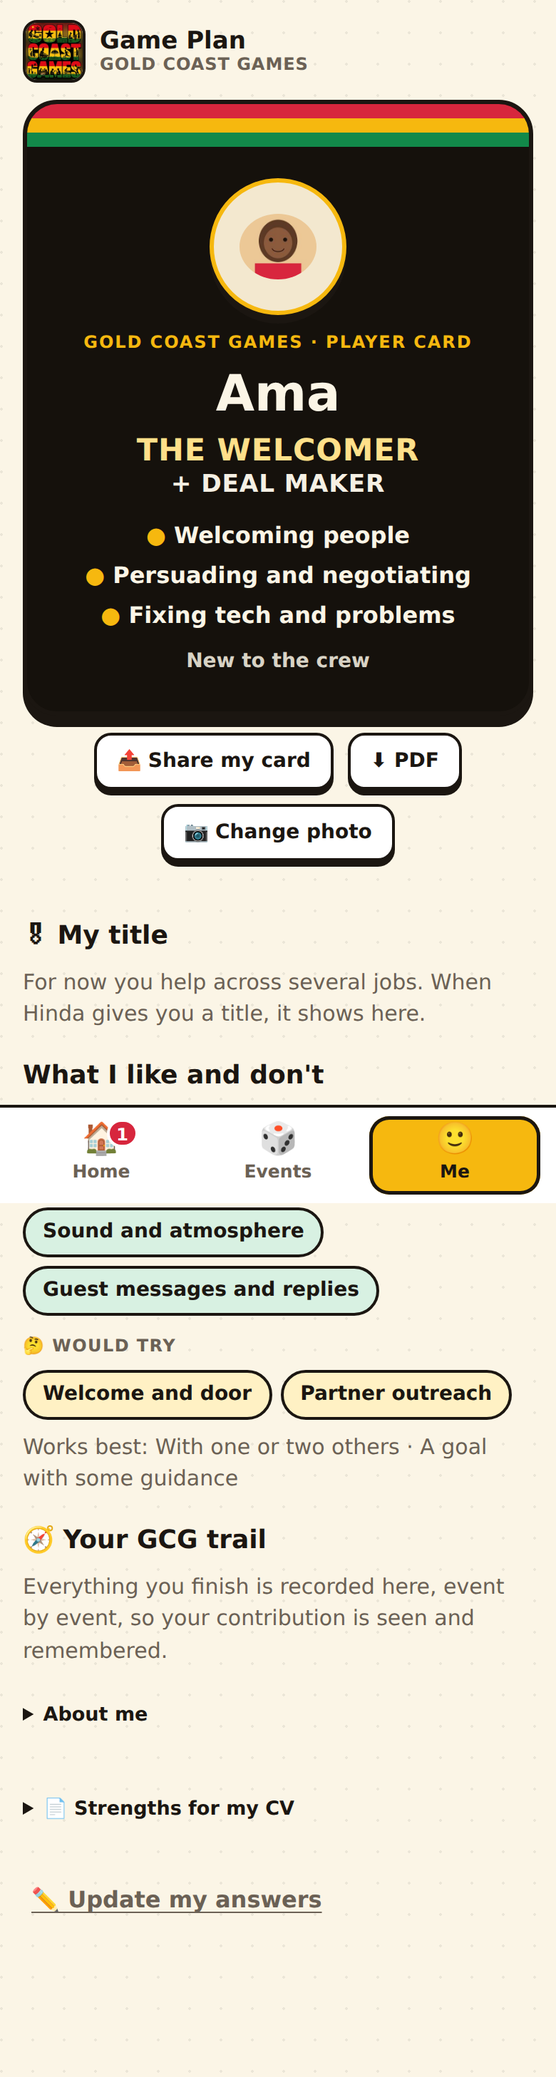
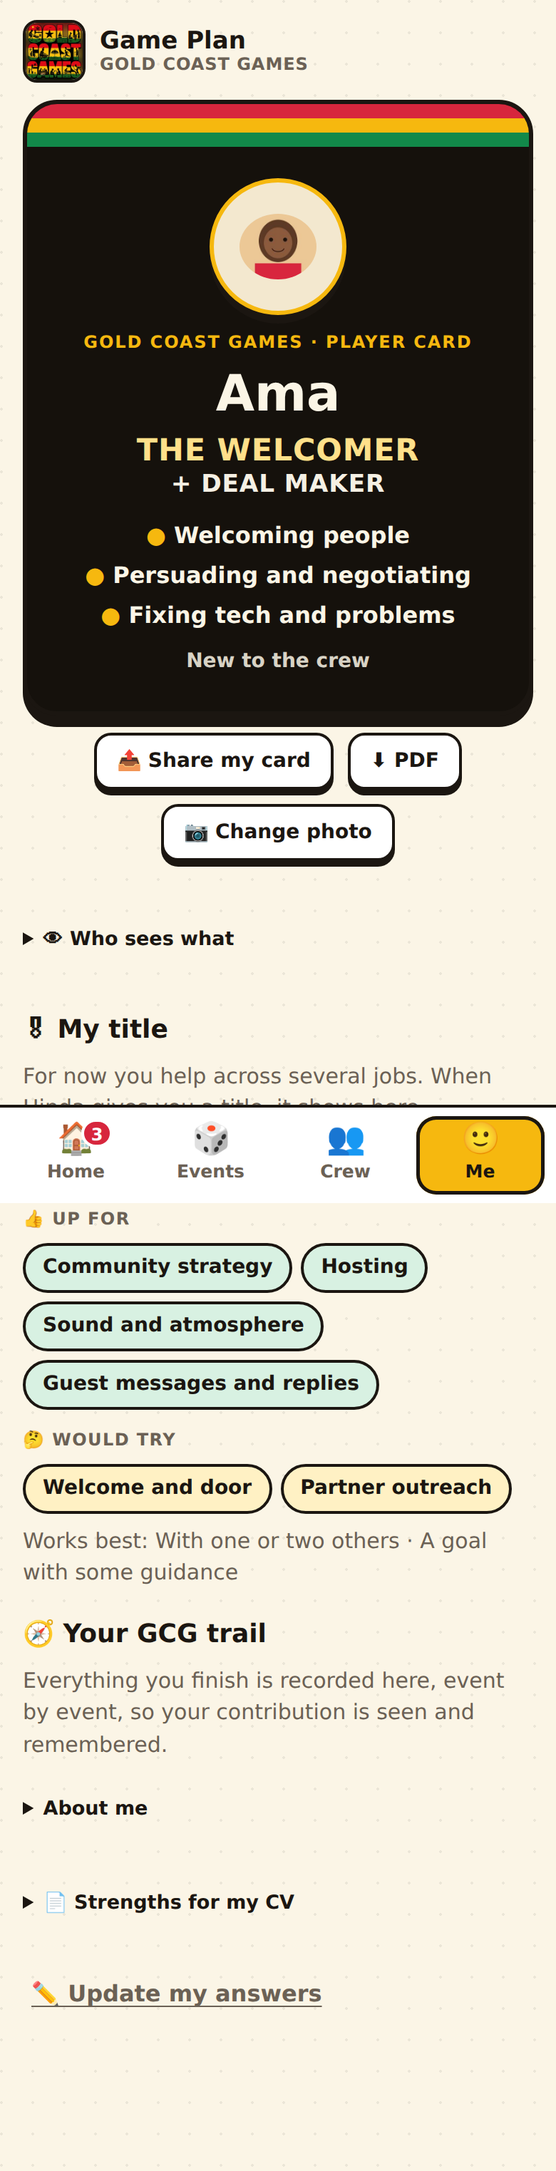
Let people choose what the crew sees, and add a Crew tab
Every person's About is visible to the crew; other sections are opt-in and off by default. Never shared: jobs they would rather not do, why they are here, card corrections. Adds a Crew tab, keeps panels open on live updates, and stops empty sections printing null.

Claude-Session: https://claude.ai/code/session_01JE2q3PibkVT4seoSptK9bV

Changed region(s): [[0.0, 0.0, 1.0, 0.9369], [0.8, 0.7495, 0.9231, 0.8119], [0.4923, 0.8432, 0.5231, 0.8744]]

diff --git a/gcg-game-plan.html b/gcg-game-plan.html
@@ -492,6 +492,20 @@ body.has-nav{padding-bottom:104px}
 .avatar{border-radius:50%;object-fit:cover;border:3px solid var(--edge);background:var(--bg-2)}
 .avatar.big{width:140px;height:140px;display:grid;place-items:center;font-size:56px}
 .avatar.card{width:96px;height:96px;border-color:#F6B80F}
+.avatar.md{width:56px;height:56px;flex:none;display:grid;place-items:center;font-size:26px}
+.sharebox{display:grid;gap:8px}
+.shr{appearance:none;display:grid;grid-template-columns:auto minmax(0,1fr) auto;gap:10px;align-items:center;text-align:left;border:2.5px solid var(--edge);border-radius:14px;background:var(--card);padding:10px 12px;cursor:pointer;min-height:52px}
+.shr.locked{background:var(--gold-soft);cursor:default}
+.shr[aria-pressed="true"]{background:var(--green-soft)}
+.shr-e{font-size:22px}
+.shr-t{display:grid;gap:2px}
+.crewtitle{display:grid;gap:2px;border-top:1.5px solid var(--soft);padding:8px 0}
+.crewtitle:first-of-type{border-top:0}
+.crewcard{margin-top:12px;gap:10px}
+.crewhead{appearance:none;display:flex;align-items:center;gap:12px;width:100%;text-align:left;border:0;background:none;padding:0;cursor:pointer}
+.crew-who{display:grid;gap:3px;flex:1;min-width:0}
+.crew-who b{font-family:var(--font-display);font-weight:600;font-size:18px}
+.crewsec{display:grid;gap:4px;border-top:1.5px solid var(--soft);padding-top:8px}
 .avatar.sm{width:32px;height:32px;border-width:2px;vertical-align:middle;margin-right:8px}
 .photobox{display:grid;justify-items:center;gap:12px;padding:8px 0}
 .photobox label.btn{cursor:pointer}
@@ -523,6 +537,7 @@ body.has-nav{padding-bottom:104px}
   <main id="view-flow"><div id="flow"></div></main>
   <section id="view-home" hidden><div id="homeBody"></div></section>
   <section id="view-mevents" hidden><div id="meventsBody"></div></section>
+  <section id="view-crew" hidden><div id="crewBody"></div></section>
   <section id="view-me" hidden><div id="profileBody"></div></section>
   <section id="view-today" hidden><div id="todayBody"></div></section>
 
@@ -890,6 +905,8 @@ function h(tag,attrs){
   }
   return e;
 }
+// Adding an empty section (null, false) to the page should add nothing, never the word "null".
+(function(){var o=Element.prototype.append;Element.prototype.append=function(){var a=[];(function f(xs){xs.forEach(function(c){if(Array.isArray(c))f(c);else if(c!=null&&c!==false)a.push(c);});})([].slice.call(arguments));return o.apply(this,a);};})();
 function $(id){return document.getElementById(id);}
 function clear(el){while(el.firstChild)el.removeChild(el.firstChild);}
 function say(el,text,kind){if(!el)return;el.textContent=text||"";if(kind)el.setAttribute("data-kind",kind);else el.removeAttribute("data-kind");}
@@ -974,11 +991,11 @@ var LEVELS=[
  {name:"You",screens:["like"]},
  {name:"Situations",screens:ASK.map(function(_,i){return "s"+i;})},
  {name:"Jobs",screens:["deck","all","profile"]},
- {name:"Your profile",screens:["done","bring","proud","photo","work","why"]}
+ {name:"Your profile",screens:["done","bring","proud","photo","work","why","share"]}
 ];
 // Onboarding is creating your profile: the card game (about 6 minutes), then your profile (about 4 minutes).
 // Progress is saved at every step, so people can stop and come back.
-var PATH=["intro","like"].concat(ASK.map(function(_,i){return "s"+i;})).concat(["deck","profile","done","bring","proud","photo","work","why"]);
+var PATH=["intro","like"].concat(ASK.map(function(_,i){return "s"+i;})).concat(["deck","profile","done","bring","proud","photo","work","why","share"]);
 var DECK_N=6;
 var S={name:"",cv:"",extra:"",levels:{},top:[],q:new Array(NQ+2).fill(0),story:newStory(),confirm:"",confirmNote:"",
   screen:"intro",tmp:null,deck:null,deckSig:"",deckAt:0,returnTo:"deck",openArea:"",
@@ -993,7 +1010,7 @@ function grouped(src){
 }
 function payload(){
   var g=grouped(S);
-  return {v:5,photo:cleanPhoto(S.photo),name:clean(S.name).slice(0,60),cv:clean(S.cv).slice(0,1500),extra:clean(S.extra).slice(0,600),
+  return {v:6,share:sanitizeShare(S.share),photo:cleanPhoto(S.photo),name:clean(S.name).slice(0,60),cv:clean(S.cv).slice(0,1500),extra:clean(S.extra).slice(0,600),
     top:g.top,good:g.good,curious:g.curious,no:g.no,q:normQ(S.q),story:sanitizeStory(S.story),
     confirm:CONFIRM[S.confirm]?S.confirm:"",confirmNote:clean(S.confirmNote).slice(0,300),
     updated:new Date().toISOString(),source:"app"};
@@ -1001,13 +1018,13 @@ function payload(){
 function saveDraft(){
   clearTimeout(saveTimer);
   saveTimer=setTimeout(function(){
-    lsSet(DRAFT_KEY,JSON.stringify({photo:S.photo,extraMode:!!S.extraMode,name:S.name,cv:S.cv,extra:S.extra,levels:S.levels,q:S.q,story:S.story,confirm:S.confirm,confirmNote:S.confirmNote,
+    lsSet(DRAFT_KEY,JSON.stringify({share:S.share,photo:S.photo,extraMode:!!S.extraMode,name:S.name,cv:S.cv,extra:S.extra,levels:S.levels,q:S.q,story:S.story,confirm:S.confirm,confirmNote:S.confirmNote,
       screen:S.screen,deck:S.deck,deckSig:S.deckSig,deckAt:S.deckAt,savedAt:new Date().toISOString()}));
   },250);
 }
 function loadDraft(){var raw=lsGet(DRAFT_KEY);if(!raw)return null;try{return JSON.parse(raw);}catch(e){return null;}}
 function applyRecord(d){
-  S.name=d.name||S.name;S.cv=d.cv||"";S.extra=d.extra||"";S.photo=cleanPhoto(d.photo);
+  S.name=d.name||S.name;S.cv=d.cv||"";S.extra=d.extra||"";S.photo=cleanPhoto(d.photo);S.share=sanitizeShare(d.share);
   S.levels={};S.top=sanitizeIds(d.top).slice(0,3);
   sanitizeIds(d.top).concat(sanitizeIds(d.good)).forEach(function(i){S.levels[i]="good";});
   sanitizeIds(d.curious).forEach(function(i){S.levels[i]="curious";});
@@ -1079,7 +1096,8 @@ function go(sc){
   try{window.scrollTo({top:0,behavior:reduceMotion?"auto":"smooth"});}catch(e){window.scrollTo(0,0);}
 }
 function next(){
-  if(S.screen==="why"&&!S.extraMode){finishOnboarding();return;}
+  if(S.screen==="share"){finishOnboarding();return;}
+  if(S.screen==="why"&&!S.extraMode){go("share");return;}
   var e=EXTRA.indexOf(S.screen);if(S.extraMode&&e>-1){var rest=EXTRA.slice(e+1).filter(extraMissing);if(rest.length)go(rest[0]);else finishExtra();return;}
   var i=PATH.indexOf(S.screen);if(i>-1&&i<PATH.length-1)go(PATH[i+1]);}
 function back(){
@@ -1171,7 +1189,7 @@ var BUILD={
     var steps=[["You","What kind of work pulls you in"],["Situations","7 quick ones: pick what is most and least like you"],["Jobs","Jobs that might suit you. Pick as many as you like"],["Your profile","What you've done, your CV and a photo if you like"]];
     card.append(h("ol",{class:"levels","aria-label":"The four levels"},steps.map(function(s,i){return h("li",null,h("span",{class:"n","aria-hidden":"true",text:String(i+1)}),h("div",null,h("b",{text:s[0]}),h("span",{text:s[1]})));})));
     card.append(h("div",{class:"prize"},h("b",{text:"🏆 At the end: your player card"}),
-      h("span",{text:"Your player card, your profile, and your own Game Plan: what to do next, your events and your place at GCG. It all goes to Hinda only; share your card yourself if you like."})));
+      h("span",{text:"Your player card, your profile, and your own Game Plan: what to do next, your events and your place at GCG. Hinda sees your answers. The crew sees your About, plus anything you choose to share."})));
     var inp=h("input",{type:"text",id:"name",autocomplete:"name",placeholder:"First name is fine",value:S.name});
     inp.addEventListener("input",function(){S.name=inp.value;saveDraft();});
     function start(){if(!clean(S.name)){warn("Add your name first.");inp.focus();return;}next();}
@@ -1250,7 +1268,7 @@ var BUILD={
     return hd;
   },
   photo:function(card){
-    var hd=shell(card,"Your profile","Add a photo of yourself","Optional. It goes on your player card and profile, which only you and Hinda see.");
+    var hd=shell(card,"Your profile","Add a photo of yourself","Optional. It shows on your player card and in the crew list, as part of your About.");
     var st=h("p",{class:"status",role:"status","aria-live":"polite"});
     var prev=S.photo?h("img",{class:"avatar big",src:S.photo,alt:"Your photo"}):h("div",{class:"avatar big empty","aria-hidden":"true",text:"🙂"});
     var file=h("input",{type:"file",accept:"image/*",id:"photoIn",class:"sr"});
@@ -1340,11 +1358,17 @@ var BUILD={
     var hd=shell(card,"About you","Why are you here?","Pick up to 3.");
     card.append(multiGroup(WHY,function(){return S.story.why;},3,true,"two"),
       h("div",{class:"qgroup"},h("h3",{text:"Where do you see yourself at GCG in a few years?"}),singleGroup(FUTURE,function(){return S.story.future;},function(v){S.story.future=v;},true)));
-    navRow(card,"Save ✓",function(){
+    navRow(card,S.extraMode?"Save ✓":"Next →",function(){
       if(!S.story.why.length){warn("Pick at least one reason.");return;}
       if(!S.story.future){warn("Pick where you see yourself. Not sure yet is fine.");return;}
       next();
     },{big:true});
+    return hd;
+  },
+  share:function(card){
+    var hd=shell(card,"Your profile","What do you want the crew to see?","Your About is always visible, so newcomers can see who does what. The rest is your choice. You can change it any time under Me.");
+    card.append(shareToggles());
+    navRow(card,"Save and open my Game Plan ▶",next,{big:true});
     return hd;
   },
   profile:function(card){
@@ -1369,7 +1393,7 @@ var BUILD={
     var canSend=!!(S.db&&S.uid&&S.canWrite!==false);
     card.append(!canSend?h("button",{type:"button",class:"btn go big wide",text:"Next: build my profile ▶",onclick:function(){go("done");}}):canSend?h("button",{type:"button",class:"btn go big wide",text:"Save my card and build my profile ▶",onclick:function(){say(st,"Saving…");saveResponse(function(){go("done");},function(){say(st,"This account cannot send here. Use Copy my results and send it to Hinda.","warn");});}})
         :null,st,
-      h("p",{class:"sub center",text:canSend?"Your card goes to Hinda only.":"Sending from this page is not set up for you. Copy your results and send them to Hinda."}),
+      h("p",{class:"sub center",text:canSend?"Hinda sees your answers. The crew sees your About; you choose the rest.":"Sending from this page is not set up for you. Copy your results and send them to Hinda."}),
       h("details",{class:"more"},h("summary",{text:"More: share, PDF, all jobs"}),
         h("div",{class:"row"},h("button",{type:"button",class:"btn small",text:"📤 Share my card",onclick:function(){downloadPdf(true);}}),h("button",{type:"button",class:"btn small",text:"⬇ PDF",onclick:function(){downloadPdf(false);}}),
           h("button",{type:"button",class:"btn small",text:"🗂 See all jobs",onclick:function(){S.returnTo="profile";go("all");}}),
@@ -2665,7 +2689,7 @@ function renderInsights(){
 }
 
 /* ---------- Game Plan navigation: Home · Events · Me for the team; Today · Events · Team · Insights · Me for Hinda ---------- */
-var NAV_MEMBER=[["home","🏠","Home"],["mevents","🎲","Events"],["me","🙂","Me"]];
+var NAV_MEMBER=[["home","🏠","Home"],["mevents","🎲","Events"],["crew","👥","Crew"],["me","🙂","Me"]];
 var NAV_ADMIN=[["today","🔥","Today"],["events","🎲","Events"],["team","👥","Team"],["insights","📊","Insights"],["me","🙂","Me"]];
 S.evSel="";S.teamTab="people";
 function onboarded(){return !!S.sentAt;}
@@ -2893,7 +2917,7 @@ function yourPart(ev,mine,me){
     now.length>3&&!showAll?h("button",{type:"button",class:"btn link",text:"Show "+(now.length-3)+" more for now",onclick:function(){S.panel[key]=true;renderMyEvents();}}):null);
   if(later.length){
     var byStage={};later.forEach(function(t){var i=taskStageIdx(ev,t);(byStage[i]=byStage[i]||[]).push(t);});
-    box.append(h("details",{class:"more later"},h("summary",{text:"🔒 Later in the plan ("+later.length+")"}),
+    box.append(h("details",{class:"more later",open:S.panel["later:"+ev.id]?true:null,ontoggle:function(e){S.panel["later:"+ev.id]=e.currentTarget.open;}},h("summary",{text:"🔒 Later in the plan ("+later.length+")"}),
       h("p",{class:"sub",text:"These open up when the event gets there. No need to think about them yet."}),
       Object.keys(byStage).sort().map(function(i){return h("div",{class:"laterstage"},h("b",{text:stageName(Number(i))}),
         byStage[i].map(function(t){return myTaskCard(ev,t,me);}));})));
@@ -2971,12 +2995,12 @@ function drawCoverage(){
 
 
 /* ---------- Views and refresh ---------- */
-var VIEWS=["home","mevents","me","flow","today","events","team","insights","tasks","mine"];
+var VIEWS=["home","mevents","crew","me","flow","today","events","team","insights","tasks","mine"];
 function showView(v){
   S.view=v;
   VIEWS.forEach(function(k){var el=$("view-"+k);if(el)el.hidden=(k!==v);});
   $("wrap").classList.toggle("wide",v==="team"||v==="events"||v==="insights"||v==="today");
-  if(v==="home")renderHome();if(v==="mevents")renderMyEvents();if(v==="me")renderProfile();if(v==="flow")render();
+  if(v==="home")renderHome();if(v==="mevents")renderMyEvents();if(v==="crew")renderCrew();if(v==="me")renderProfile();if(v==="flow")render();
   if(v==="today")renderToday();if(v==="team")renderTeam();if(v==="events")renderEvents();if(v==="insights")renderInsights();if(v==="mine")renderMine();
   renderNav();window.scrollTo(0,0);
 }
@@ -2984,7 +3008,7 @@ function updateTabs(){renderNav();}
 function renderTasks(){if(S.view==="home")renderHome();else if(S.view==="mevents")renderMyEvents();renderNav();}
 function refresh(){
   var v=S.view;
-  if(v==="home")renderHome();else if(v==="mevents")renderMyEvents();else if(v==="today")renderToday();else if(v==="me")renderProfile();
+  if(v==="home")renderHome();else if(v==="mevents")renderMyEvents();else if(v==="today")renderToday();else if(v==="me")renderProfile();else if(v==="crew")renderCrew();
   renderNav();
 }
 function homeView(){return S.isAdmin?"today":"home";}
@@ -2998,7 +3022,7 @@ function startExtra(only){var first=only||EXTRA.filter(extraMissing)[0]||EXTRA[0
 function saveResponse(done,fail){
   var p=payload();if(!S.db||!S.uid){if(fail)fail();return;}
   S.db.doc("people/"+S.uid).set({name:p.name,updated:p.updated}).catch(function(){});
-  S.db.doc("responses/"+S.uid).set(p).then(function(){S.sentAt=p.updated;renderNav();if(done)done();},function(){if(fail)fail();});
+  S.db.doc("responses/"+S.uid).set(p).then(function(){S.sentAt=p.updated;renderNav();publishCrew();if(done)done();},function(){if(fail)fail();});
 }
 function finishOnboarding(){
   if(!S.db||!S.uid){S.screen="profile";saveDraft();render();setTimeout(function(){say($("submitStatus"),"Sending from this page is not set up for you. Use Copy my results and send them to Hinda.","warn");},60);return;}
@@ -3128,6 +3152,7 @@ function drawMe(root){
     h("button",{type:"button",class:"btn small",text:S.photo?"📷 Change photo":"📷 Add a photo",onclick:function(){startExtra("photo");}})),pst);
   var miss=EXTRA.filter(extraMissing).length;
   if(miss)root.append(h("button",{type:"button",class:"banner",onclick:startExtra},"➕ Finish your profile: "+miss+" quick question"+(miss>1?"s":"")+" ›"));
+  root.append(h("details",{class:"more msec",open:S.panel["me-share"]?true:null,ontoggle:function(e){S.panel["me-share"]=e.currentTarget.open;}},h("summary",{text:"👁 Who sees what"}),shareToggles(function(){saveResponse();})));
   // title
   root.append(h("section",{class:"msec"},h("h3",{class:"msec-h",text:"🎖 My title"}),
     ts.length?ts.map(function(x){return h("div",{class:"box"},h("b",{text:x.name}),x.desc?h("p",{text:x.desc}):null,
@@ -3148,13 +3173,83 @@ function drawMe(root){
       :h("p",{class:"sub",text:"Everything you finish is recorded here, event by event, so your contribution is seen and remembered."})));
   // about + CV, quieter
   var cv=cvOf(p,prof),cvSt=h("p",{class:"status",role:"status","aria-live":"polite"});
-  root.append(h("details",{class:"more msec"},h("summary",{text:"About me"}),prof.lines.map(function(l){return h("p",{text:l});}),
+  root.append(h("details",{class:"more msec",open:S.panel["me-about"]?true:null,ontoggle:function(e){S.panel["me-about"]=e.currentTarget.open;}},h("summary",{text:"About me"}),prof.lines.map(function(l){return h("p",{text:l});}),
       st.proud?h("p",null,h("b",{text:"Proudest work: "}),st.proud):null,
       h("div",{class:"stats"},prof.stats.map(function(s){return h("div",{class:"stat"},h("span",{text:s.label}),h("span",{class:"bar light","aria-hidden":"true"},h("i",{style:"width:"+Math.round(s.v*100)+"%"})));}))),
-    h("details",{class:"more msec"},h("summary",{text:"📄 Strengths for my CV"}),
+    h("details",{class:"more msec",open:S.panel["me-cv"]?true:null,ontoggle:function(e){S.panel["me-cv"]=e.currentTarget.open;}},h("summary",{text:"📄 Strengths for my CV"}),
       cv.map(function(s){return h("div",{class:"cvsec"},h("h4",{text:s[0]}),h("ul",null,s[1].map(function(x){return h("li",{text:x});})));}),
       h("button",{type:"button",class:"btn small",text:"Copy for my CV",onclick:function(){copyText(cvText(cv),cvSt,"Copied. Paste it into your CV or LinkedIn.");}}),cvSt),
     h("div",{class:"row",style:"margin-top:12px"},h("button",{type:"button",class:"btn link",text:"✏ Update my answers",onclick:function(){S.screen="like";showView("flow");}})));
+}
+
+/* ---------- Sharing: everyone's About is visible to the crew; the rest is each person's choice ---------- */
+// Never shareable: jobs you'd rather not do, why you are here, card corrections. Those stay between you and Hinda.
+var SHARE_OPTS=[["up","👍","Jobs I'm up for"],["did","✅","What I've done"],["brings","🧰","What I bring"],["proud","⭐","My proudest work"],["works","🧭","How I work best"],["cv","📄","My CV or link"]];
+S.share={up:false,did:false,brings:false,proud:false,works:false,cv:false};S.crew={};
+function sanitizeShare(s){var o={};SHARE_OPTS.forEach(function(x){o[x[0]]=!!(s&&s[x[0]]);});return o;}
+// The public card: the About always, plus only the sections this person switched on.
+function publicCard(){
+  var p=payload(),prof=profileOf(p);if(!prof)return null;
+  var sh=sanitizeShare(S.share),st=sanitizeStory(p.story),g=grouped(S),yes=g.top.concat(g.good);
+  var doc={name:p.name,photo:p.photo,type:prof.title,chips:prof.chips.slice(0,2),strengths:prof.top.map(function(t){return TRAIT_LABEL[t];}),sections:{},updated:nowIso()};
+  if(sh.up&&yes.length)doc.sections.up=yes.map(function(i){return FN[i].name;}).slice(0,40);
+  if(sh.did){var d=maskLabels(EXP,p.q[NQ]);if(d.length)doc.sections.did=d;}
+  if(sh.brings){var b=labels(M_HIDDEN,st.hidden).concat(st.hiddenNote?[st.hiddenNote]:[]);if(b.length)doc.sections.brings=b;}
+  if(sh.proud&&st.proud)doc.sections.proud=st.proud;
+  if(sh.works&&workStyle(st))doc.sections.works=workStyle(st);
+  if(sh.cv&&clean(p.cv))doc.sections.cv=clean(p.cv).slice(0,1500);
+  return doc;
+}
+function publishCrew(){
+  if(!S.db||!S.uid||S.canWrite===false)return;
+  var doc=publicCard();if(!doc)return;
+  S.db.doc("crew/"+S.uid).set(doc).catch(function(){});
+}
+function shareToggles(onChange){
+  var box=h("div",{class:"sharebox"});
+  box.append(h("div",{class:"shr locked"},h("span",{class:"shr-e","aria-hidden":"true",text:"🙂"}),h("span",{class:"shr-t"},h("b",{text:"Your About"}),h("span",{class:"sub",text:"Name, photo, type, strengths and title. Always visible to the crew, so newcomers can see who does what."})),h("span",{class:"pill","data-s":"taken",text:"Shared"})));
+  SHARE_OPTS.forEach(function(o){
+    var on=!!S.share[o[0]];
+    var b=h("button",{type:"button",class:"shr","aria-pressed":String(on),onclick:function(){S.share[o[0]]=!S.share[o[0]];b.setAttribute("aria-pressed",String(!!S.share[o[0]]));b.querySelector(".pill").textContent=S.share[o[0]]?"Shared":"Private";b.querySelector(".pill").setAttribute("data-s",S.share[o[0]]?"taken":"draft");saveDraft();if(onChange)onChange();}},
+      h("span",{class:"shr-e","aria-hidden":"true",text:o[1]}),h("span",{class:"shr-t"},h("b",{text:o[2]})),h("span",{class:"pill","data-s":on?"taken":"draft",text:on?"Shared":"Private"}));
+    box.append(b);
+  });
+  box.append(h("p",{class:"sub",text:"Always private, whatever you choose: jobs you'd rather not do, why you're here, and your card corrections. Only you and Hinda see those."}));
+  return box;
+}
+
+/* ---------- Crew: who does what ---------- */
+function renderCrew(){
+  var root=$("crewBody");if(!root)return;var keep=focusKeep(root);clear(root);
+  try{drawCrew(root);}finally{focusRestore(root,keep);}
+}
+function drawCrew(root){
+  var ids=Object.keys(S.crew||{});
+  root.append(h("h1",{class:"h-sum",text:"The crew"}),h("p",{class:"sub",style:"margin-top:-8px;margin-bottom:12px",text:"Everyone at GCG, and what they do. Tap a person to see what they have chosen to share."}));
+  var tts=S.titles.filter(function(x){return (x.holders||[]).length;});
+  if(tts.length)root.append(h("section",{class:"card hsec"},h("p",{class:"k",text:"🎖 Who does what"}),
+    tts.map(function(x){return h("div",{class:"crewtitle"},h("b",{text:x.name}),h("span",{class:"sub",text:(x.holders||[]).map(nameOf).join(", ")}),x.desc?h("span",{class:"sub",text:x.desc}):null);})));
+  if(!ids.length){root.append(h("p",{class:"sub",text:"The crew shows up here as people finish their profiles."}));return;}
+  ids.sort(function(a,b){if(a===S.uid)return -1;if(b===S.uid)return 1;return String(S.crew[a].name).localeCompare(String(S.crew[b].name));});
+  ids.forEach(function(id){
+    var c=S.crew[id],key="crew:"+id,open=!!S.tlOpen[key],secs=c.sections||{},ts=titlesOf(id),n=Object.keys(secs).length;
+    var ph=cleanPhoto(c.photo);
+    var head=h("button",{type:"button",class:"crewhead","aria-expanded":String(open),onclick:function(){S.tlOpen[key]=!open;renderCrew();}},
+      ph?h("img",{class:"avatar md",src:ph,alt:""}):h("div",{class:"avatar md empty","aria-hidden":"true",text:"🙂"}),
+      h("span",{class:"crew-who"},h("b",{text:(c.name||"Someone")+(id===S.uid?" (you)":"")}),
+        ts.length?h("span",{class:"chip t1",text:"🎖 "+ts.map(function(x){return x.name;}).join(", ")}):null,
+        h("span",{class:"sub",text:c.type||""})),
+      h("span",{class:"chev","aria-hidden":"true",text:open?"−":"+"}));
+    var card=h("section",{class:"card crewcard"},head);
+    if(open){
+      card.append(h("div",{class:"chips"},(c.strengths||[]).map(function(s,i){return h("span",{class:"chip t"+i,text:s});})));
+      function sec(label,val){return val&&(!Array.isArray(val)||val.length)?h("div",{class:"crewsec"},h("p",{class:"lab",text:label}),Array.isArray(val)?h("div",{class:"chips"},val.map(function(v){return h("span",{class:"chip",text:v});})):h("p",{text:val})):null;}
+      card.append(sec("👍 Up for",secs.up),sec("✅ Has done",secs.did),sec("🧰 Brings",secs.brings),sec("⭐ Proudest work",secs.proud),sec("🧭 Works best",secs.works),
+        secs.cv?h("div",{class:"crewsec"},h("p",{class:"lab",text:"📄 CV or link"}),safeUrl(secs.cv)&&!/\s/.test(clean(secs.cv))?h("a",{href:safeUrl(secs.cv),target:"_blank",rel:"noopener",text:clean(secs.cv)}):h("p",{text:secs.cv})):null,
+        n?null:h("p",{class:"sub",text:(id===S.uid?"You have":c.name+" has")+" not shared more yet."}));
+    }
+    root.append(card);
+  });
 }
 
 /* ---------- Capabilities ---------- */
@@ -3202,6 +3297,10 @@ function initCaps(){
         S.names={};snap.docs.forEach(function(d){var o=d.data();if(o&&o.name)S.names[d.id]=clean(o.name).slice(0,60);});
         if(S.view==="events")renderEvents();refresh();
       },function(){});
+      S.db.collection("crew").onSnapshot(function(snap){
+        S.crew={};snap.docs.forEach(function(d){S.crew[d.id]=thaw(d.data());});
+        if(S.view==="crew")renderCrew();
+      },function(){});
       S.db.collection("titles").onSnapshot(function(snap){
         S.titles=snap.docs.map(function(d){if(titleDirty[d.id]){var mine=titleById(d.id);if(mine)return mine;}var o=thaw(d.data());o.id=d.id;o.jobs=sanitizeIds(o.jobs);o.holders=Array.isArray(o.holders)?o.holders:[];return o;});
         if(S.view==="team")renderTeam();refresh();
@@ -3226,7 +3325,7 @@ function boot(){
   if(LOGO.indexOf("data:")===0){var m=$("miniLogo");m.src=LOGO;m.hidden=false;$("miniFb").hidden=true;}
   var d=loadDraft();
   if(d){
-    S.name=d.name||"";S.cv=d.cv||"";S.extra=d.extra||"";S.photo=cleanPhoto(d.photo);S.extraMode=!!d.extraMode;
+    S.name=d.name||"";S.cv=d.cv||"";S.extra=d.extra||"";S.photo=cleanPhoto(d.photo);S.share=sanitizeShare(d.share);S.extraMode=!!d.extraMode;
     S.levels={};Object.keys(d.levels||{}).forEach(function(k){if(FN[k]&&(d.levels[k]==="good"||d.levels[k]==="curious"||d.levels[k]==="no"))S.levels[k]=d.levels[k];});
     S.q=normQ(d.q);S.story=sanitizeStory(d.story);S.confirm=CONFIRM[d.confirm]?d.confirm:"";S.confirmNote=d.confirmNote||"";
     S.deck=Array.isArray(d.deck)?sanitizeIds(d.deck):null;S.deckSig=d.deckSig||"";S.deckAt=Math.max(0,Number(d.deckAt)||0);

diff --git a/docs/SYSTEM-OVERVIEW.md b/docs/SYSTEM-OVERVIEW.md
@@ -33,10 +33,11 @@ Hinda (founder, creative director) plans **events from templates**. The system b
 |---|---|
 | **Home**: next move (one button), GCG right now (event journey + your part), your place (type, strengths, tasks and events done), next crew date, up for grabs | **Today**: active events, what needs attention, answers waiting, coverage gaps; **Needs you** (max five, one action each); her own next move; every event's journey |
 | **Events**: only their events → event page: goal, crew chat link, journey, your part (task cards), crew contributions, run sheet | **Events**: create from a template → event page: goal, journey, needs attention, suggest people, send offers; everything else folded (all tasks, add a task, guests and messages, debrief, more actions) |
-| **Me**: player card (shareable), finish your profile, title, likes and dislikes, **GCG trail**, about me and CV strengths folded | **Team**: People (cards, pings, paste-in), **Coverage** (wings as tiles with a dot per person; red means no one or only one), Titles |
+| **Crew**: who does what (titles and their holders), then everyone's About, expandable to whatever each person chose to share |
+| **Me**: player card (shareable), finish your profile, **who sees what**, title, likes and dislikes, **GCG trail**, about me and CV strengths folded | **Team**: People (cards, pings, paste-in), **Coverage** (wings as tiles with a dot per person; red means no one or only one), Titles |
 | | **Insights**: how fast things get done, on-time rates, where plans are unrealistic |
 
-Team members never see Team, Coverage, Titles, Insights or anyone else's profile.
+Team members never see Team, Coverage, Titles or Insights. They see other people only through the Crew tab, and only what each person chose to share.
 
 ## 5. Key behaviours
 
@@ -52,7 +53,9 @@ Team members never see Team, Coverage, Titles, Insights or anyone else's profile
 
 ## 6. Privacy
 
-Profiles are private: each person sees only their own; Hinda sees everyone's. People can share their own card as a PDF. Shared with the team: names, event tasks and their status, who finished what, titles. Hinda only: everyone's cards, motivations, card corrections, per-person timing data.
+**Sharing is each person's choice.** Every person's **About** (name, photo, type, strengths, title) is always visible to the crew, so newcomers can see who does what. Everything else is opt-in and off by default: jobs I'm up for, what I've done, what I bring, my proudest work, how I work best, my CV or link. People set this at the end of onboarding and can change it any time under Me, Who sees what. **Never shared, whatever the person chooses:** jobs they would rather not do, why they are here, and their card corrections. The crew sees a separate public card, so switching something off removes it from view.
+
+Also shared with the team: event tasks and their status, who finished what, titles. Hinda only: everyone's full answers, motivations, card corrections, per-person timing data. People can also share their own card as a PDF.
 
 ## 7. Technology and cost
 
